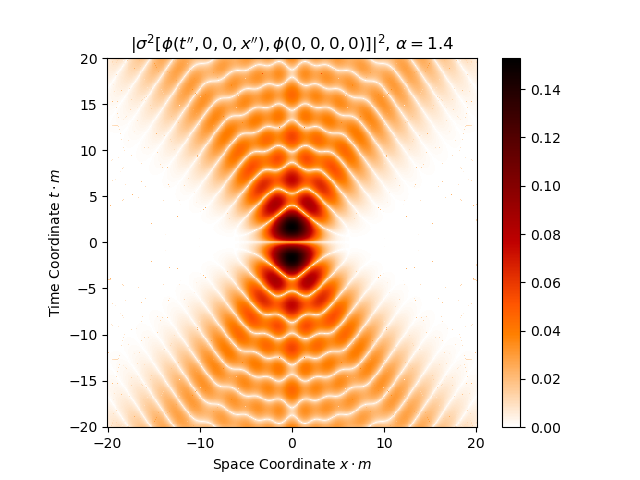
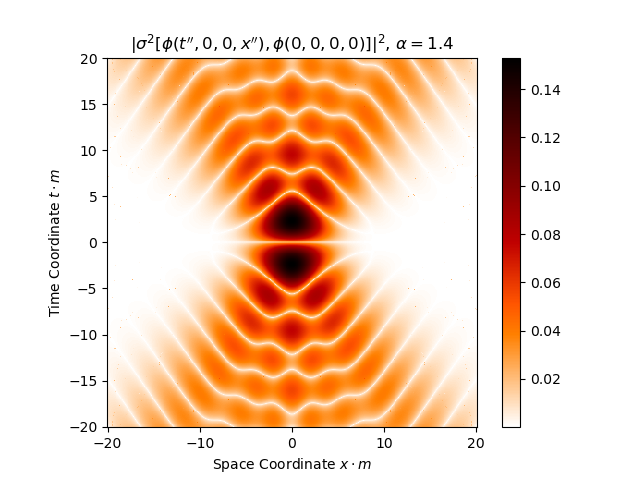
Fixed new output

Changed region(s): [[0.1562, 0.125, 0.75, 0.9062], [0.8125, 0.875, 0.875, 0.9062]]

diff --git a/commutators.py b/commutators.py
@@ -38,11 +38,9 @@ def calc(lim_x, lim_t, step, alpha, hat_coords=False):
     xs = np.linspace(-lim_x, lim_x, step)
     ts = np.linspace(-lim_t, lim_t, step)
     
-    xx, tt = np.meshgrid(xs, ts)
-    
     if hat_coords:
-        xx = xx / alpha
-        tt = tt / alpha
+        xs = xs / alpha
+        ts = ts / alpha
     
     # manual parallel processing
     #arguments = [(x, t, alpha) for t in ts for x in xs]
@@ -54,6 +52,8 @@ def calc(lim_x, lim_t, step, alpha, hat_coords=False):
     # vectorization with JAX
     vcomm = jax.vmap(jax.vmap(lambda x, t: comm(x, t, alpha), in_axes=(0, None)), in_axes=(None, 0))
     z = vcomm(xs, ts)
+    
+    xx, tt = np.meshgrid(xs, ts)
     
     return xx, tt, z
 
